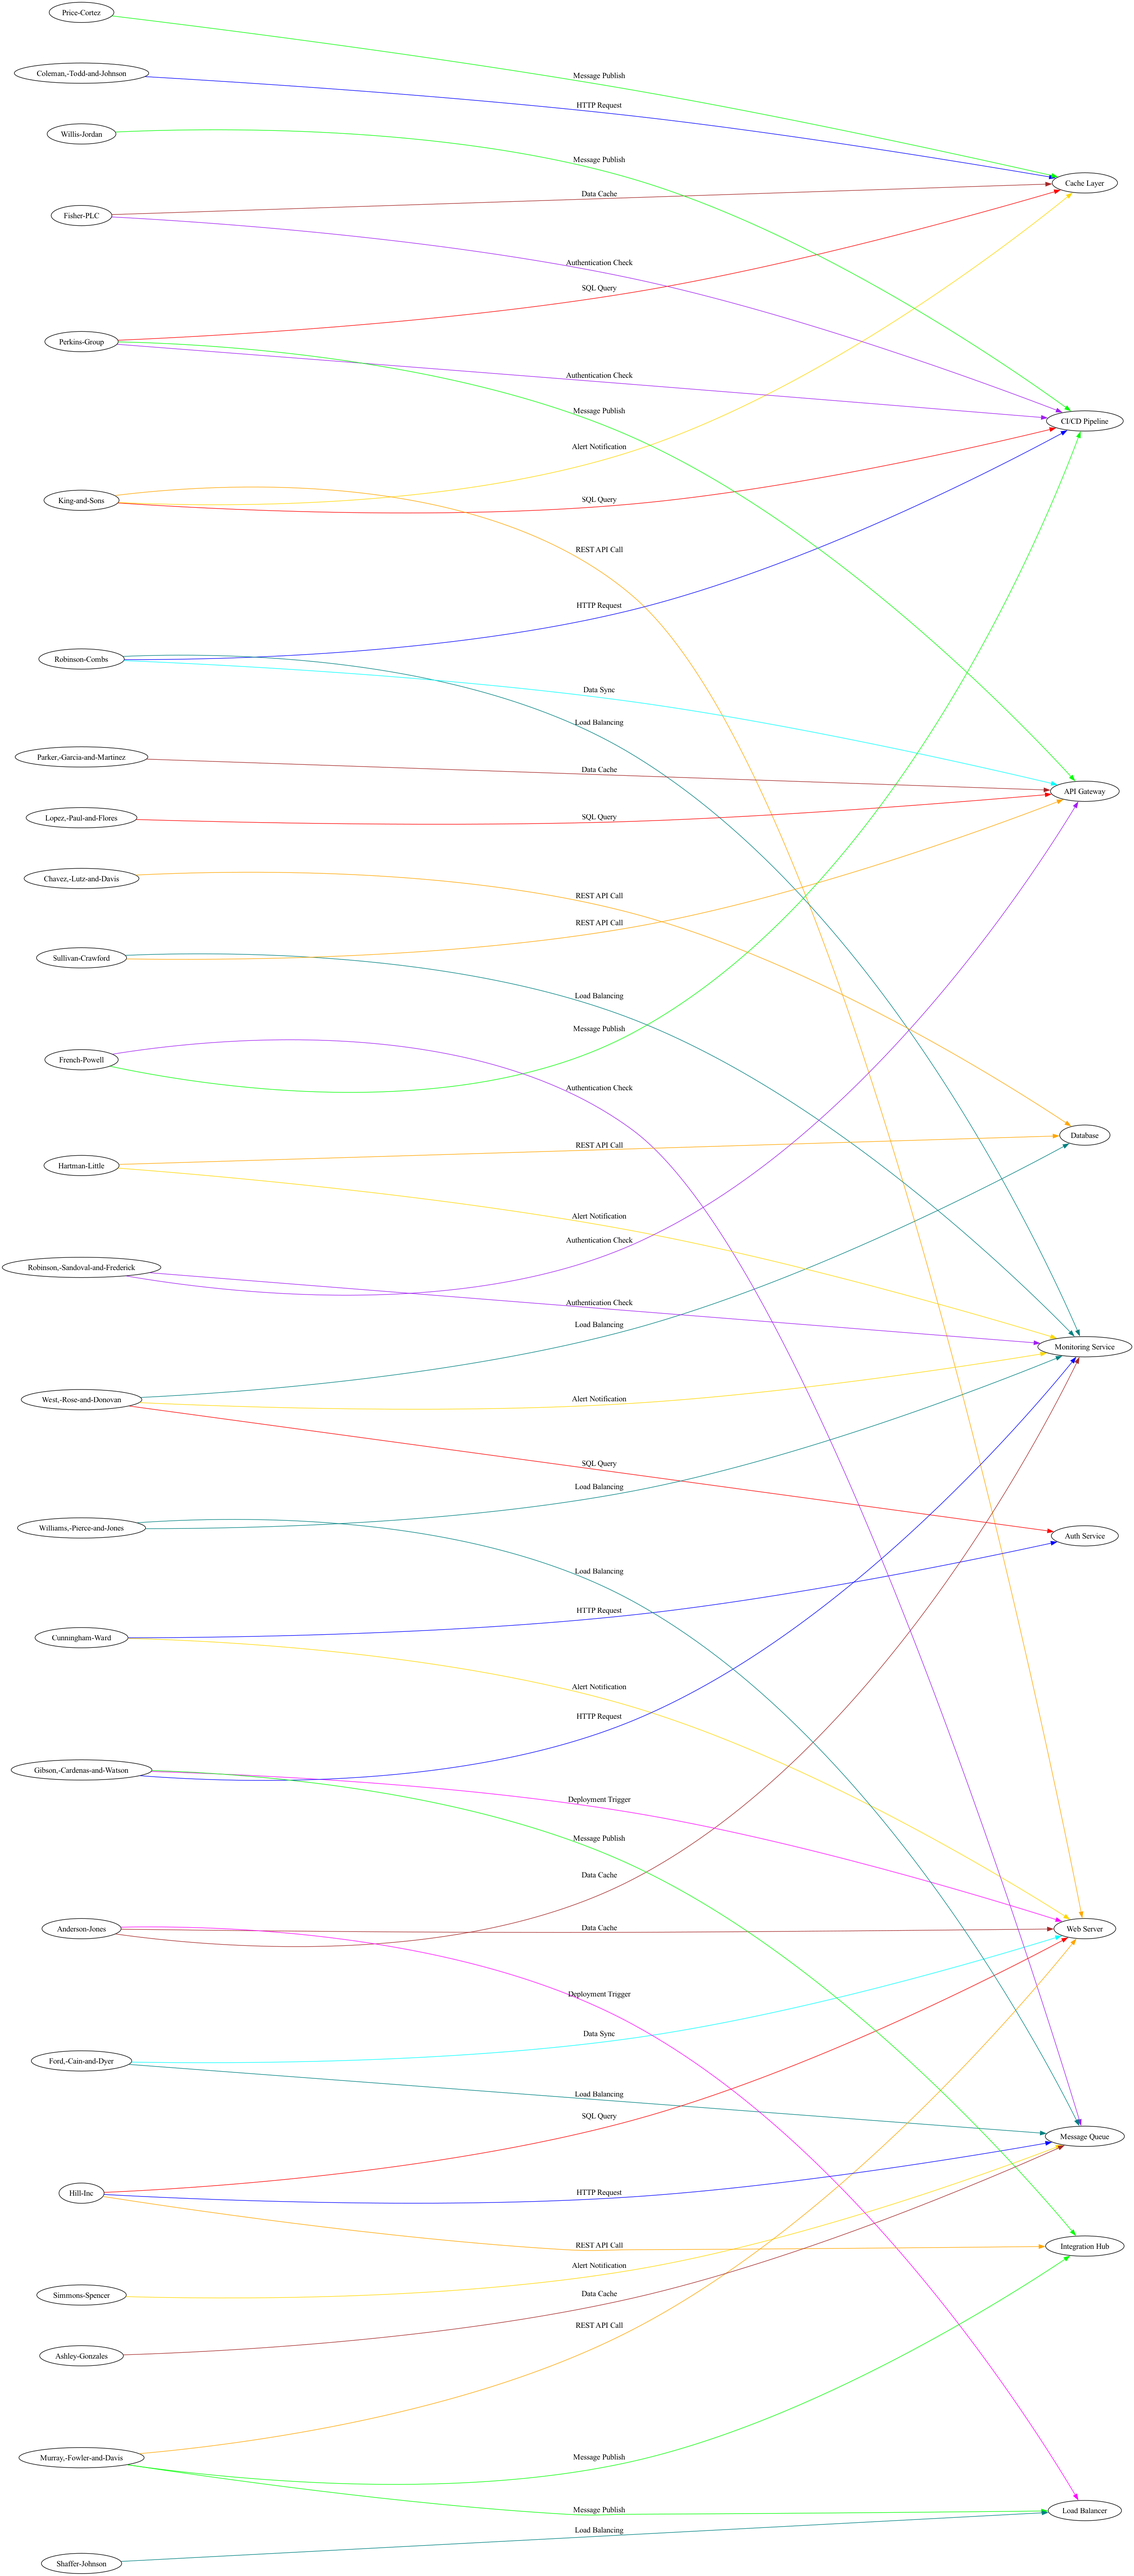
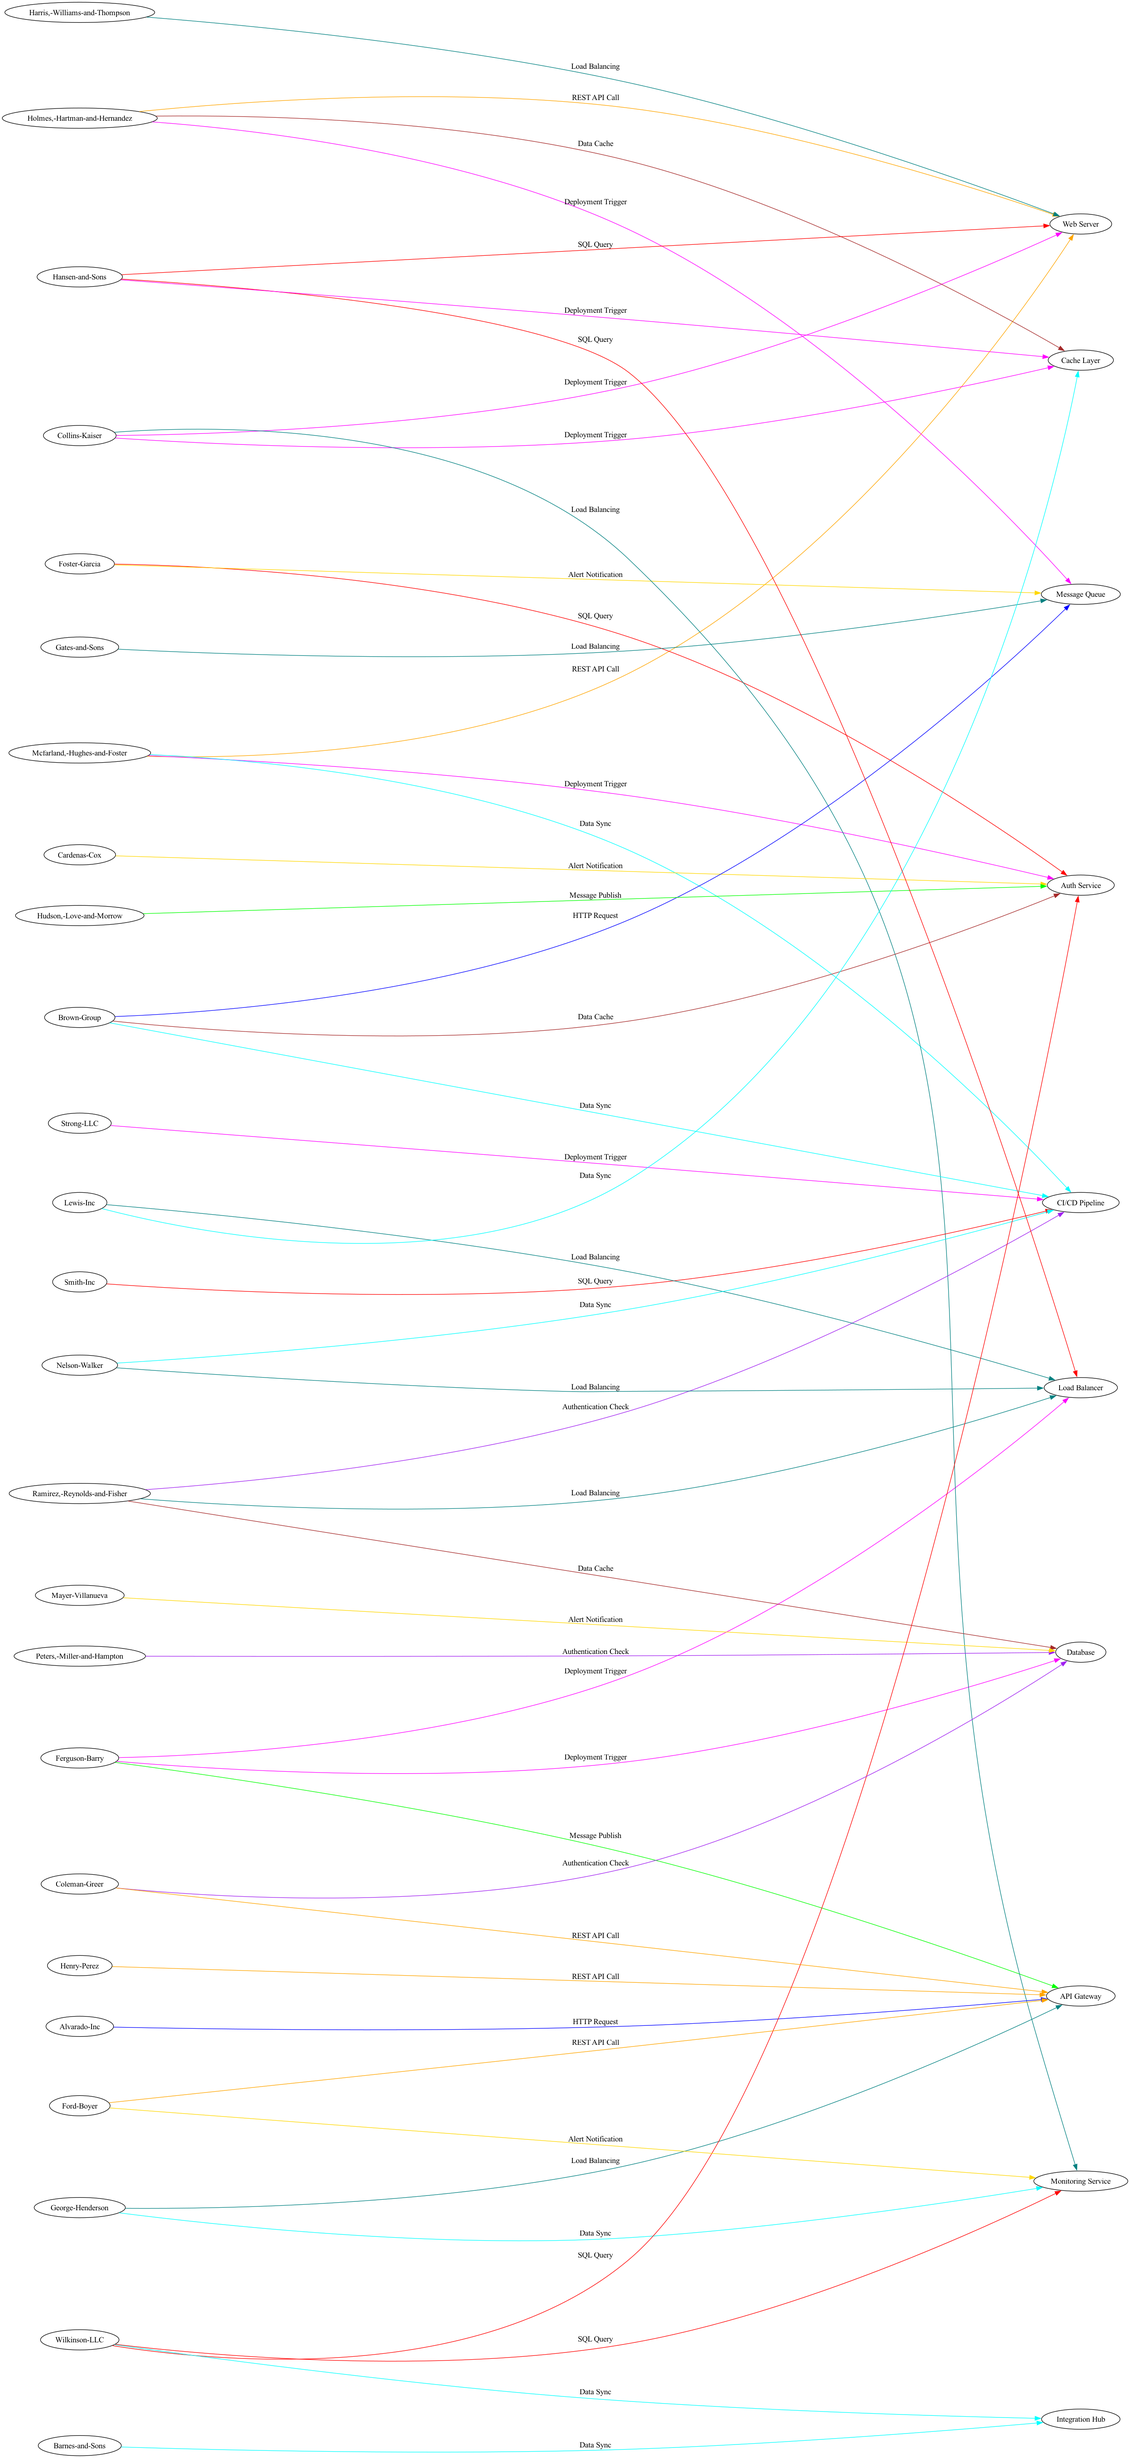
adding in page 2

diff --git a/er_diagram.py b/er_diagram.py
@@ -1,0 +1,173 @@
+import json
+import argparse
+
+from faker import Faker
+from faker.providers import BaseProvider, DynamicProvider
+from rich.console import Console
+
+
+if __name__ == "__main__":
+    console = Console()
+    console.print(f"""
+SAMPLE DATA GENERATOR
+        """, style="bold green")
+    kval = 8
+    console.print(f"Generating {kval} consultant profiles", style="green")
+    fake = Faker('en_US')
+    with open("./data/base_skills.json", 'r') as f:
+        file_data = json.load(f)
+    
+    class SkillsProvider(BaseProvider):
+        def mechanism(self, lengthSet):
+            return self.random_elements(file_data["mechanism"], length=lengthSet)
+        
+        def directionality(self, lengthSet):
+            return self.random_elements(file_data["directionality"], length=lengthSet)
+        
+    fake.add_provider(SkillsProvider)
+    
+    output = []
+    for _ in range(5):
+        appRelations = fake.random_int(min=1,max=8)
+        appNameList = []
+        topicList = []
+        for _ in range(appRelations):
+            appNameList.append("AppName-" + str(fake.random_int(min=0, max=100))+ "")
+            topicList.append(fake.unique.word())
+        obj = {
+            "appName1": "AppName-" + str(fake.random_int(min=0, max=100))+ "",
+            "appName2": appNameList,
+            "directionality": fake.directionality(appRelations),
+            "mechanism": fake.mechanism(appRelations),
+            "topic" : topicList,
+        }
+        output.append(obj)
+
+    console.print(f"Consultant profiles generated. Writing to consultant_profiles", style="green")
+    json.dump(output, open("./data/consultant_profiles.json", "w"), indent=4)
+
+import pandas as pd
+import numpy as np
+import os
+import json
+
+if __name__ == "__main__":
+    # Load the data
+    with open("./data/consultant_profiles.json", 'r') as f:
+        data = json.load(f)
+    
+    # Create a DataFrame
+    df = pd.DataFrame(data)
+    
+    dfToFill = pd.DataFrame(columns=['appName1', 'appName2', 'directionality', 'mechanism','topic'])
+    incrementer = 0
+    for i, row in df.iterrows():
+        for j in range(len(row['appName2'])):
+            dfToFill.at[incrementer, 'appName1'] = row['appName1']
+            dfToFill.at[incrementer, 'appName2'] = row['appName2'][j]
+            dfToFill.at[incrementer, 'directionality'] = row['directionality'][j]
+            dfToFill.at[incrementer, 'mechanism'] = row['mechanism'][j]
+            dfToFill.at[incrementer, 'topic'] = row['topic'][j]
+            incrementer += 1
+    
+    print(dfToFill)
+ 
+ #
+from graphviz import Digraph
+
+# Prompt user for application to map
+app_to_map = "all"
+
+# Initialize a directed graph with additional attributes
+graph_format = 'svg' 
+g = Digraph(format=graph_format, engine='circo', strict=True) # dot, neato, fdp, sfdp, circo, twopi, nop, nop2, osage, patchwork
+g.attr(compound='true', style='filled', color='deepskyblue', fillcolor='lightskyblue')
+
+# Filter the data to include only relevant rows or "all" for all applications
+if app_to_map == "all":
+    filtered_df = dfToFill
+    app_shape = 'circle'
+else:
+    filtered_df = df[(df['App-1'] == app_to_map) | (df['App-2'] == app_to_map)]
+    app_shape = 'box'
+    g.node(app_to_map, label=app_to_map, shape=f'{app_shape}', color='deepskyblue', fillcolor='lightskyblue')
+
+def get_label(row):
+    #Generate label for edges using the topic, or blank if NaN.
+    return f"{row['topic']}" if pd.notna(row['topic']) else ""
+
+# Define colors for mechanisms
+mechanism_colors = {
+    "fileShare": "blue",
+    "ftp": "red",
+    "api": "green",
+    "emails": "grey",
+    "autosys": "orange",
+    "service bus": "purple",
+    "batch updates": "brown"
+}
+
+mechanism_arrow = {
+    "fileShare":"odot",
+    "ftp":"box",
+    "api":"diamond",
+    "emails":"vee",
+    "autosys":"tee",
+    "service bus":"crow",
+    "batch updates":"normal"
+}
+
+# Add edges within a subgraph for better organization
+with g.subgraph(name="cluster00") as relationships:
+    relationships.attr(label="Application Relationships", style="dashed")
+    for _, row in filtered_df.iterrows():
+        style = "solid"
+        arrowhead = "normal"
+        arrowtail = "normal"
+        direction = "forward"
+        
+        direction_type = str(row['directionality']).strip().lower() if pd.notna(row['directionality']) else ""
+        mechanism_type = str(row['mechanism']).strip().lower() if pd.notna(row['mechanism']) else ""
+        
+        color = mechanism_colors.get(mechanism_type, "black")  # Default to black if no match
+        arrowhead = mechanism_arrow.get(mechanism_type, "normal")  # Default to black if no match
+
+                
+        if direction_type == "bi-directional":
+            style = "bold"
+            direction = "both"
+            arrowtail=arrowhead
+        elif direction_type == "depends on":
+            style = "dashed"
+            
+        relationships.edge(row['appName1'], row['appName2'], label=get_label(row), style=style, arrowhead=arrowhead, arrowtail=arrowtail, dir=direction, color=color)
+
+# Add a properly structured subgraph for Legend and Mechanism at the bottom
+
+'''
+with g.subgraph(name="cluster01") as legend:
+    legend.attr(label="Legend", style="dashed")
+    legend.node("Legend", shape="box")
+    legend.edge("Legend", "Bi-Directional", label="Double Arrow", style="bold", dir="both")
+    legend.edge("Legend", "Depends On", label="Dashed Line", style="dashed")
+    legend.edge("Legend", "Normal Flow", label="Solid Line", style="solid")
+'''
+# with g.subgraph(name="cluster02") as invi:
+#     invi.attr(color=invis, style=invis)
+#     invi.node("Invisible", shape="point", color=invis, style=invis)
+   
+with g.subgraph(name="cluster03") as mechan:
+    mechan.attr(label="Mechanism", style="dashed")
+    mechan.node("Mechanism", shape="box")
+    mechan.edge("Mechanism", "API", label="Green Diamond", arrowhead="diamond", color="green")
+    mechan.edge("Mechanism", "FTP", label="Red Box", arrowhead="box", color="red", shape="box")
+    mechan.edge("Mechanism", "Fileshare", label="Blue Circle", arrowhead="odot", color="blue")
+    mechan.edge("Mechanism", "Emails", label="Grey Vee", arrowhead="vee", color="grey")
+    mechan.edge("Mechanism", "Autosys", label="Orange Tee", arrowhead="tee", color="orange")
+    mechan.edge("Mechanism", "Service Bus", label="Purple Crow", arrowhead="crow", color="purple")
+    mechan.edge("Mechanism", "Batch Updates", label="Brown Normal", arrowhead="normal", color="brown")
+
+# Save and render the graph
+g.render("relationship_map")
+
+print(f"Graph generated as relationship_map.{graph_format}")

diff --git a/main.py b/main.py
@@ -1,28 +1,23 @@
 import streamlit as st
 
 st.set_page_config(
-    page_title="Hello",
+    page_title="Start Page",
     page_icon="👋",
 )
-
-st.write("# Welcome to Streamlit! 👋")
+st.write("# IRE Design Automation POC")
 
 st.sidebar.success("Select a demo above.")
 
 st.markdown(
     """
-    Streamlit is an open-source app framework built specifically for
-    Machine Learning and Data Science projects.
-    **👈 Select a demo from the sidebar** to see some examples
-    of what Streamlit can do!
-    ### Want to learn more?
-    - Check out [streamlit.io](https://streamlit.io)
-    - Jump into our [documentation](https://docs.streamlit.io)
-    - Ask a question in our [community
-        forums](https://discuss.streamlit.io)
-    ### See more complex demos
-    - Use a neural net to [analyze the Udacity Self-driving Car Image
-        Dataset](https://github.com/streamlit/demo-self-driving)
-    - Explore a [New York City rideshare dataset](https://github.com/streamlit/demo-uber-nyc-pickups)
+    This is the work of Alexis Lohman, Kaz Kazarnoff and Shanay Martin. 
+
+    Shanay presented the idea to the team to automate an IRE generation. For workstreams, she was focused on the creation of the RACI to be 
+    templatized to support the automatic scirpting to populate it. 
+    Kaz and Alexis support efforts in creating the python scripts, generating fake data and setting up the wireframe
+    for Streamlit.
+
+    Please flip through portions of the POC to understand the process flow and architecrtual diagram, in addition to the individual
+    components making up the rought draft of the populated IRE.
 """
 )
